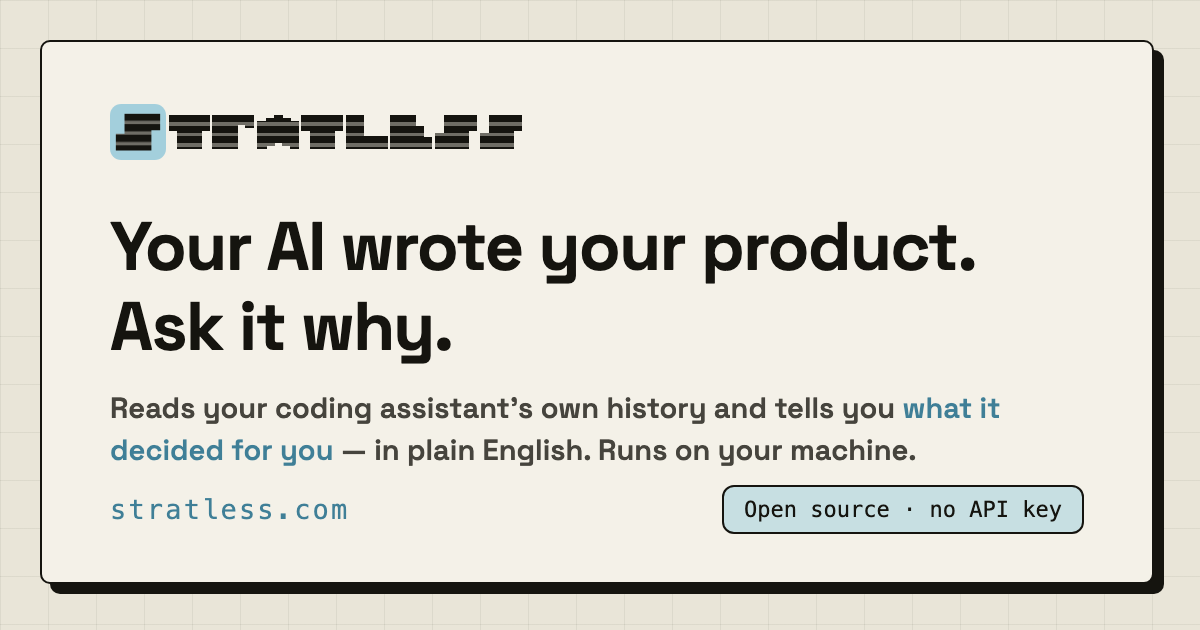
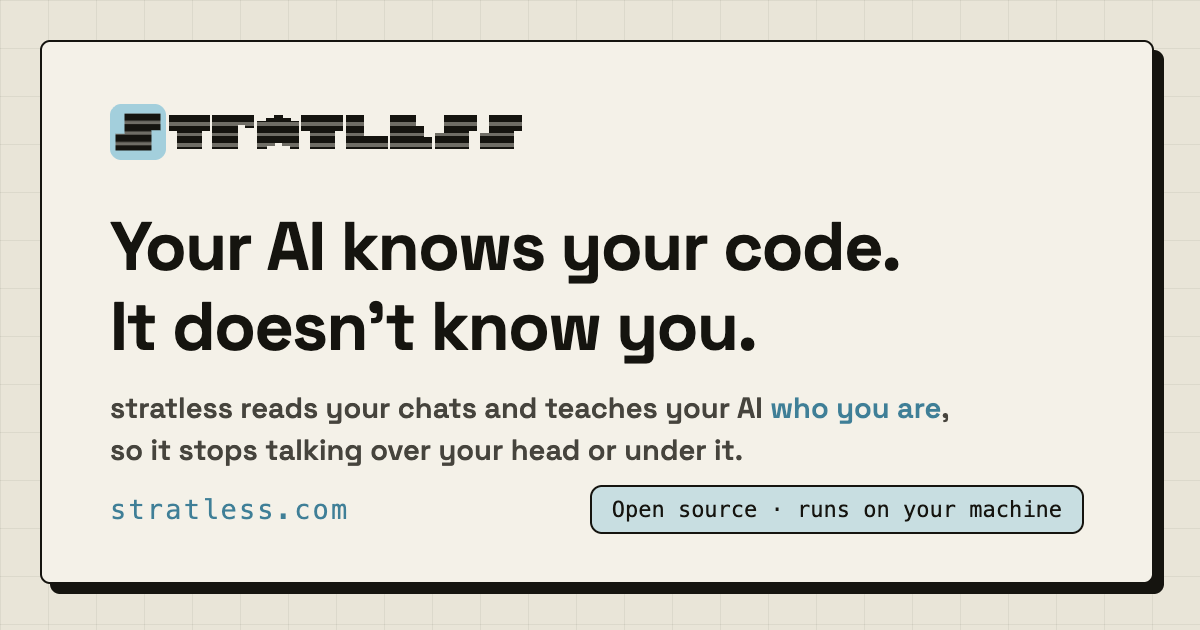
fix(web): the legal pages and the share card stop selling the dead product
/privacy described the old provenance tool's data flows and /terms promised
its receipts; the OG card, the most-seen artifact of any shared link, still
carried the killed 0.1.0 headline. All three now tell the profiler story:
what it reads (transcripts, not repo files), what it writes and where, the
one borrowed network call, and a share card that mirrors the hero verbatim.
Effective date bumped; em dashes out per the house rule.

Changed region(s): [[0.0925, 0.6333, 0.8942, 0.8746], [0.0925, 0.4524, 0.6475, 0.573], [0.2775, 0.3317, 0.8325, 0.4524]]

diff --git a/web/pages/privacy.vue b/web/pages/privacy.vue
@@ -19,36 +19,46 @@ useSeo({
         <p>
           <strong>stratless is a program that runs on your computer.</strong> It is not a service.
           There is no server, no account, no sign-up, and no API key. We do not receive your code,
-          your conversations, or any information about you — because there is nowhere for it to go.
+          your conversations, or your profile, because there is nowhere for it to go.
         </p>
 
         <h2>What stratless reads</h2>
         <p>
-          Your coding assistant's own conversation history, which is already on your disk (Claude
-          Code stores it in <code>~/.claude/projects</code>), and the files in the repository you
-          run it against. It reads them. <strong>It does not send them anywhere.</strong>
+          Your coding assistant's own conversation history, which is already on your disk. Claude
+          Code keeps it in <code>~/.claude/projects</code>, and stratless keeps its own archive copy
+          in <code>~/.stratless/archive</code> so the assistant's 30-day cleanup cannot eat it. It
+          reads those transcripts locally. <strong>It does not send them anywhere.</strong>
+        </p>
+
+        <h2>What it writes, and where</h2>
+        <p>
+          Everything stratless produces is a plain text file on your machine: the per-exchange
+          judgments and your profile under <code>~/.stratless</code>, the canonical
+          <code>HUMAN.md</code> at <code>~/.claude/HUMAN.md</code>, and a clearly marked block in
+          your <code>CLAUDE.md</code> that points at it. All of it is yours to read, edit, or
+          delete. <code>stratless stop</code> unloads the profile in one command.
         </p>
 
         <h2>The one network call, and it isn't ours</h2>
         <p>
-          The <em>“So what”</em> sentence — the plain-English consequence — is generated by
-          <strong>the coding assistant you already have installed</strong>. stratless shells out to
-          it (<code>claude -p</code>), on your own subscription or key, and that request goes to your
+          To judge your history and write your profile, stratless borrows
+          <strong>the coding assistant you already have installed</strong>. It shells out to it
+          (<code>claude -p</code>), on your own subscription or key, and that request goes to your
           assistant's provider exactly as it does when you use it normally.
         </p>
         <p>
-          <strong>It never touches us.</strong> We ship no model, hold no key, and run no proxy. If
-          you have no assistant installed, stratless simply skips that line and shows you the quoted
-          history instead.
+          <strong>It never touches us.</strong> We ship no model, hold no key, and run no proxy.
+          And when stratless cannot read your history honestly, it refuses and writes nothing:
+          silence beats a wrong profile.
         </p>
 
         <h2>What we collect</h2>
         <p>
           <strong>Nothing.</strong> No telemetry, no analytics, no crash reports, no usage counters,
-          no phone-home of any kind. This is not a promise we're asking you to take on trust —
-          <a href="https://github.com/stratless-ai/stratless-cli" target="_blank" rel="noopener">the
-          source is public and it's about 900 lines</a>. You can read the whole thing in an
-          afternoon and confirm there is no network code in it.
+          no phone-home of any kind. This is not a promise we're asking you to take on trust:
+          <a :href="legal.source" target="_blank" rel="noopener">the source is public and it is
+          about 1,500 lines</a>. You can read the whole thing in an afternoon and confirm there is
+          no network code in it.
         </p>
 
         <h2>This website</h2>

diff --git a/web/pages/terms.vue b/web/pages/terms.vue
@@ -32,21 +32,22 @@ useSeo({
 
         <h2>What it does, and what it does not promise</h2>
         <p>
-          stratless reads your coding assistant's own conversation history and links lines of your
-          code back to the decisions that made them. It is built to
-          <strong>refuse rather than guess</strong> — of its four answers, three are refusals — but
-          it is software, and software is wrong sometimes.
+          stratless reads your coding assistant's own conversation history and writes a profile of
+          you (<code>HUMAN.md</code>) that your assistant loads at the start of each session. It is
+          built to <strong>refuse rather than guess</strong>: when it cannot read your history
+          honestly, it says nothing. But it is software, and software is wrong sometimes.
         </p>
         <p>
-          <strong>Do not treat its output as authoritative.</strong> It shows you receipts precisely
-          so that you can check them. Check them.
+          <strong>Do not treat the profile as authoritative.</strong> It is a description of you,
+          not a fact about you. Read it, and if it reads wrong, edit it, delete it, or unload it
+          with <code>stratless stop</code>.
         </p>
 
         <h2>Your own assistant, your own bill</h2>
         <p>
-          The plain-English “So what” line is generated by the coding assistant already installed on
-          your machine, on your own subscription or key. Any cost, rate limit, or term attached to
-          that is between you and that provider. {{ legal.operator }} is not a party to it.
+          The judging and the writing are done by the coding assistant already installed on your
+          machine, on your own subscription or key. Any cost, rate limit, or term attached to that
+          is between you and that provider. {{ legal.operator }} is not a party to it.
         </p>
 
         <h2>Liability</h2>

diff --git a/web/scripts/og-card.html b/web/scripts/og-card.html
@@ -1,7 +1,8 @@
 <!doctype html>
 <!-- og.png source — the 1200×630 social card. public/og.png is a screenshot of this file.
-     Rewritten 2026-07-14 for the CLI. The old card advertised a competitive-analysis API that 404s.
-     Regenerate: serve apps/web/public at / (so /fonts + /favicon.svg resolve), then
+     Rewritten 2026-07-16 for the profiler: the card mirrors the homepage hero, so the shared link
+     and the page it lands on say the same thing.
+     Regenerate: serve web/public at / (so /fonts + /favicon.svg resolve), then
        chrome --headless=new --window-size=1200,630 --screenshot=og.png http://localhost:PORT/og-card.html
      (drop a copy of this file into the served dir first; it lives in scripts/ so it isn't deployed). -->
 <meta charset="utf-8">
@@ -61,10 +62,10 @@
 </style>
 <div class="card">
   <div class="logo"><img src="/favicon.svg" alt=""><span class="wordmark">tratless</span></div>
-  <h1>Your AI wrote your product.<br>Ask it why.</h1>
-  <p class="sub">Reads your coding assistant's own history and tells you <b>what it<br>decided for you</b>&nbsp;—&nbsp;in plain English. Runs on your machine.</p>
+  <h1>Your AI knows your code.<br>It doesn't know you.</h1>
+  <p class="sub">stratless reads your chats and teaches your AI <b>who you are</b>,<br>so it stops talking over your head or under it.</p>
   <div class="foot">
     <span class="site">stratless.com</span>
-    <span class="badge">Open source · no API key</span>
+    <span class="badge">Open source · runs on your machine</span>
   </div>
 </div>

diff --git a/web/lib/legal.ts b/web/lib/legal.ts
@@ -12,6 +12,6 @@ export const legal = {
   jurisdiction: 'Malaysia',
   email: 'sun@stratless.com',
   license: 'MIT',
-  source: 'https://github.com/stratless-ai/stratless-cli',
-  effectiveDate: 'July 14, 2026',
+  source: 'https://github.com/stratless-ai/stratless',
+  effectiveDate: 'July 16, 2026',
 }
